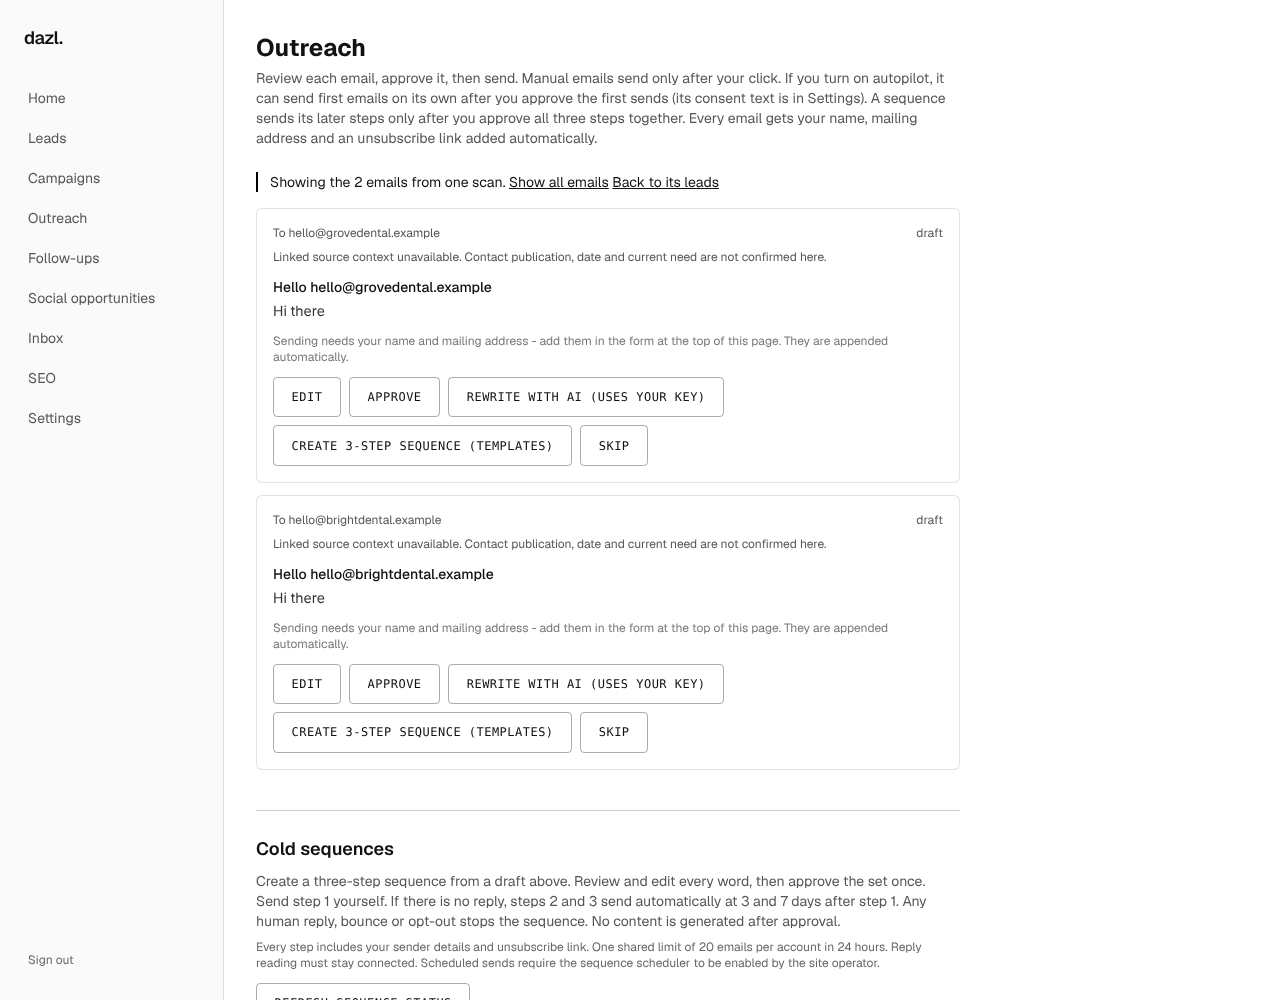
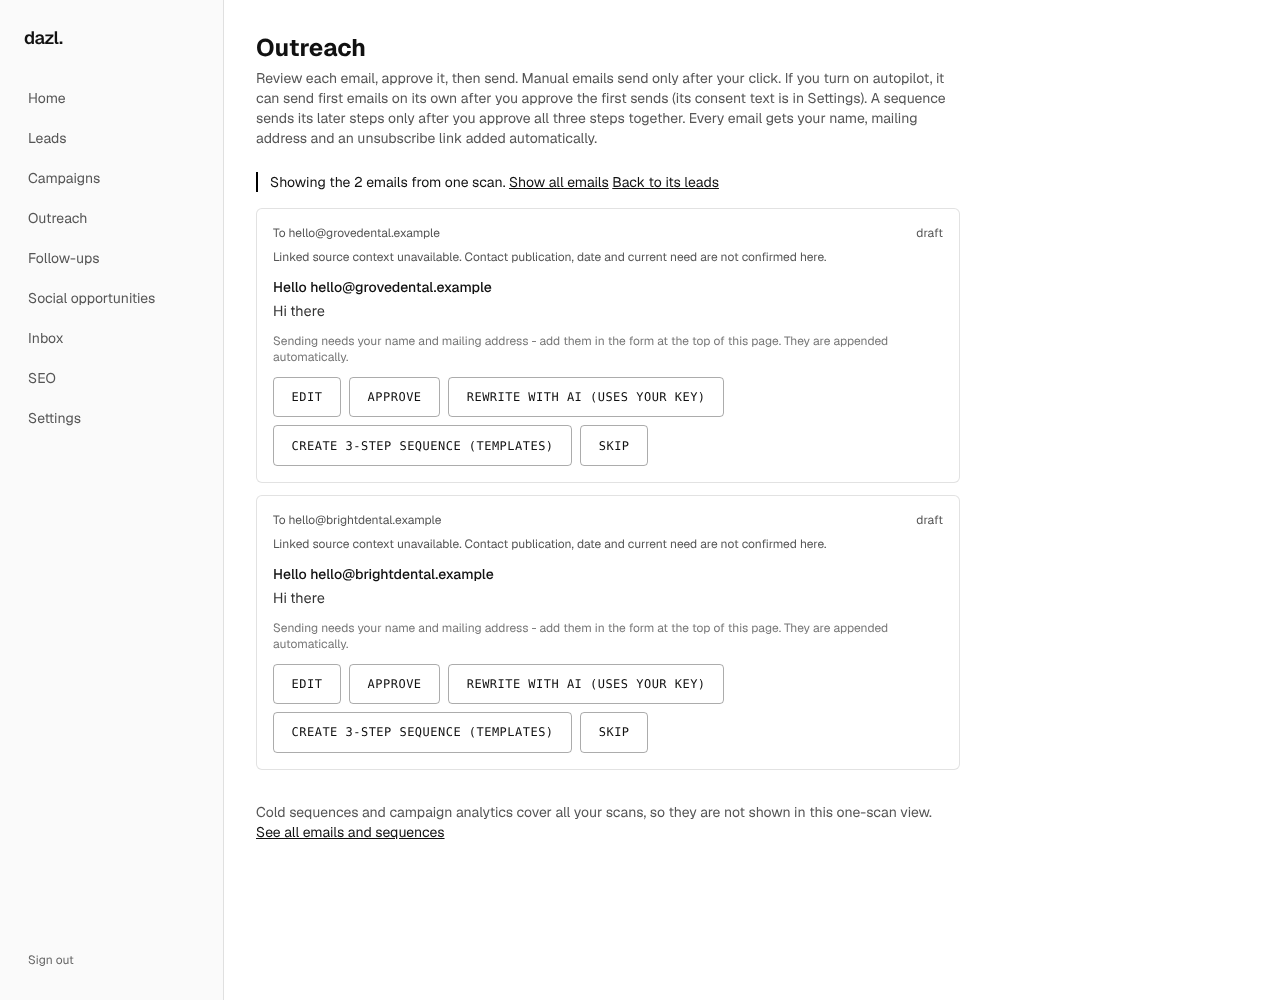
Outreach one-scan view: hide workspace-wide sequences and analytics
The scan-specific view still rendered the account's Cold sequences (other scans' recipients and actions) under
"Showing the N emails from one scan", including after a failed scan lookup. In scan mode the sequences section is not
rendered at all (decided from the URL before anything loads), with a link to the full view. The UI fixture now has a
live sequence from another scan and checks both the working and the failed-lookup view.

Claude-Session: https://claude.ai/code/session_01CafonXdzjwkFYiMRJWtsKo

Changed region(s): [[0.1875, 0.806, 0.7188, 1.0]]

diff --git a/web/app/app/outreach/outreach-client.tsx b/web/app/app/outreach/outreach-client.tsx
@@ -38,8 +38,12 @@ export default function OutreachClient() {
   // leads endpoint (all=1: a hidden or rejected lead's draft still belongs to the scan). If they cannot be read the filter
   // fails closed: no emails are listed (never another scan's under this scan's link), with a link to show all.
   const [scan, setScan] = useState<{ id: string; leadIds: string[] | null } | null>(null)
+  // Sequences and campaign analytics cover the whole workspace, so a one-scan view never renders them (not even before
+  // the scan's leads load, or after that load fails). null until the URL has been read.
+  const [mode, setMode] = useState<'all' | 'scan' | null>(null)
   async function load() {
     const jobId = new URLSearchParams(window.location.search).get('job_id')
+    setMode(isJobId(jobId) ? 'scan' : 'all')
     if (isJobId(jobId)) {
       const lr = await fetch(`/api/leads?job_id=${jobId}&all=1`).catch(() => null)
       const lj = lr?.ok ? await lr.json().catch(() => null) : null
@@ -129,7 +133,8 @@ export default function OutreachClient() {
           )
         })}
       </div>
-      <SequencesClient />
+      {mode === 'all' && <SequencesClient />}
+      {mode === 'scan' && <p className="text-sm text-[#555] mt-8" data-testid="sequences-hidden">Cold sequences and campaign analytics cover all your scans, so they are not shown in this one-scan view. <a className="underline text-[#111]" href="/app/outreach">See all emails and sequences</a></p>}
     </div>
   )
 }
